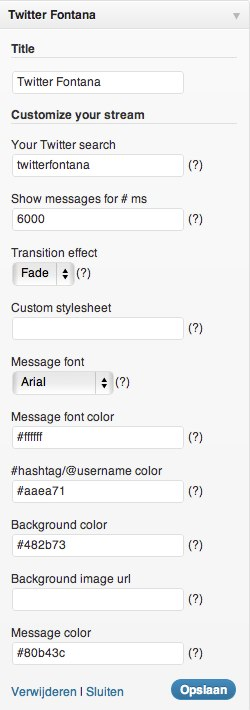
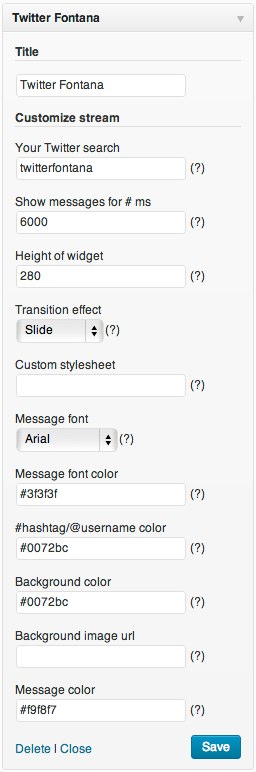
- height of widget now adjustable - updated screenshots
git-svn-id: https://plugins.svn.wordpress.org/twitterfontana-widget/trunk@614477 b8457f37-d9ea-0310-8a92-e5e31aec5664

diff --git a/twitterfontana.php b/twitterfontana.php
@@ -15,6 +15,8 @@
  * 
  * = 1.1 =
  * Added Compress effect
+ * Height of widget now adjustable
+ * New default colors
  */
 
 /*
@@ -58,6 +60,7 @@ class Twitterfontana_Widget extends WP_Widget {
 			'twitterfontana_twittersearch' => 'twitterfontana',
 			'twitterfontana_message_animate_interval' => 6000,
 			'twitterfontana_effect' => 'Slide',
+			'twitterfontana_height' => '280',
 			'twitterfontana_custom_css' => '',
 			'twitterfontana_font_face' => 'Arial, sans-serif',
 			'twitterfontana_text_color' => '#3f3f3f',
@@ -71,7 +74,7 @@ class Twitterfontana_Widget extends WP_Widget {
 			'Slide' => 'Slide',
 			'Fade' => 'Fade',
 			'Zoom' => 'Zoom',
-			'Compress' => 'Compres'
+			'Compress' => 'Compress'
 		);
 		
 		$tf_font_faces = array(
@@ -114,6 +117,14 @@ class Twitterfontana_Widget extends WP_Widget {
 			</p>
 		';
 		
+		// height
+		$tfoutput .= '
+		<p>
+			<label>' . __('Height of widget', 'twitterfontana') . '<br />
+			<input id="' . $this->get_field_id('twitterfontana_height') . '" name="' . $this->get_field_name('twitterfontana_height') . '" type="text" value="' . $instance['twitterfontana_height'] . '" /> <abbr title="' . __('Height in pixels or percentage', 'twitterfontana') . '">(?)</abbr></label>
+		</p>
+		';
+		
 		// Animation effects
 		$tfoutput .= '
 			<p>
@@ -132,7 +143,7 @@ class Twitterfontana_Widget extends WP_Widget {
 				</select><abbr title="' . __('Transition effect', 'twitterfontana') . '">(?)</abbr></label>
 			</p>
 		';
-
+		
 		// Custom stylesheet
 		$tfoutput .= '
 			<p>
@@ -213,13 +224,14 @@ class Twitterfontana_Widget extends WP_Widget {
 			'twitterfontana_twittersearch' => '',
 			'twitterfontana_message_animate_interval' => 6000,
 			'twitterfontana_effect' => 'Slide',
+			'twitterfontana_height' => '280',
 			'twitterfontana_custom_css' => '',
 			'twitterfontana_font_face' => 'Arial, sans-serif',
-			'twitterfontana_text_color' => '#ffffff',
-			'twitterfontana_special_color' => '#aaea71',
-			'twitterfontana_bg_color' => '#482b73',
+			'twitterfontana_text_color' => '#3f3f3f',
+			'twitterfontana_special_color' => '#0072bc',
+			'twitterfontana_bg_color' => '#0072bc',
 			'twitterfontana_bg_image' => '',
-			'twitterfontana_box_bg' => '#80b43c'
+			'twitterfontana_box_bg' => '#f9f8f7'
 			
 		));
 
@@ -228,6 +240,7 @@ class Twitterfontana_Widget extends WP_Widget {
 		$instance['twitterfontana_twittersearch'] = strip_tags($new_instance['twitterfontana_twittersearch']);
 		$instance['twitterfontana_message_animate_interval'] = strip_tags($new_instance['twitterfontana_message_animate_interval']);
 		$instance['twitterfontana_effect'] = strip_tags($new_instance['twitterfontana_effect']);
+		$instance['twitterfontana_height'] = strip_tags($new_instance['twitterfontana_height']);
 		$instance['twitterfontana_custom_css'] = strip_tags($new_instance['twitterfontana_custom_css']);
 		$instance['twitterfontana_font_face'] = strip_tags($new_instance['twitterfontana_font_face']);
 		$instance['twitterfontana_text_color'] = strip_tags($new_instance['twitterfontana_text_color']);
@@ -255,7 +268,9 @@ class Twitterfontana_Widget extends WP_Widget {
 	}
 
 	function twitterfontana_output($args = array(), $position) {
-		echo '<iframe src="http://twitterfontana.com/fountain.html?embed=true&twitter_search=' . $args['twitterfontana_twittersearch'] . '&effect=' . $args['twitterfontana_effect'] . '&message_animate_interval=' . $args['twitterfontana_message_animate_interval'] . '&custom_css=' . $args['twitterfontana_custom_css'] . '&font_face=' . $args['twitterfontana_font_face']. '&text_color=' . urlencode($args['twitterfontana_text_color']) . '&special_color=' . urlencode($args['twitterfontana_special_color']) . '&bg_color=' . urlencode($args['twitterfontana_bg_color']) . '&bg_image=' . $args['twitterfontana_bg_image']. '&box_bg=' . urlencode($args['twitterfontana_box_bg']) . '&utm_source=plugin&utm_medium=embed&utm_campaign=wordpress" frameborder="0" width="100%" height="300" scrolling="no"></iframe>';
+		$height = (empty($args['twitterfontana_height'])) ? '280' : $args['twitterfontana_height'];
+		
+		echo '<iframe src="http://twitterfontana.com/fountain.html?embed=true&twitter_search=' . $args['twitterfontana_twittersearch'] . '&effect=' . $args['twitterfontana_effect'] . '&message_animate_interval=' . $args['twitterfontana_message_animate_interval'] . '&custom_css=' . $args['twitterfontana_custom_css'] . '&font_face=' . $args['twitterfontana_font_face']. '&text_color=' . urlencode($args['twitterfontana_text_color']) . '&special_color=' . urlencode($args['twitterfontana_special_color']) . '&bg_color=' . urlencode($args['twitterfontana_bg_color']) . '&bg_image=' . $args['twitterfontana_bg_image']. '&box_bg=' . urlencode($args['twitterfontana_box_bg']) . '&utm_source=plugin&utm_medium=embed&utm_campaign=wordpress" frameborder="0" width="100%" height="' . $height . '" scrolling="no"></iframe>';
 
 	} // end of output
 	
@@ -296,18 +311,20 @@ add_action('widgets_init', create_function('', 'return register_widget("Twitterf
 				'twittersearch' => 'twitterfontana',
 				'message_animate_interval' => 6000,
 				'effect' => 'Slide',
+				'height' => '280',
 				'custom_css' => '',
 				'font_face' => 'Arial, sans-serif',
-				'text_color' => '#ffffff',
-				'special_color' => '#aaea71',
-				'bg_color' => '#482b73',
+				'text_color' => '#3f3f3f',
+				'special_color' => '#0072bc',
+				'bg_color' => '#0072bc',
 				'bg_image' => '',
-				'box_bg' => '#80b43c'
+				'box_bg' => '#f9f8f7'
 			), $atts));
 			
 			$instance['twitterfontana_twittersearch'] = wp_specialchars($twittersearch);
 			$instance['twitterfontana_message_animate_interval'] = wp_specialchars($message_animate_interval);
 			$instance['twitterfontana_effect'] = wp_specialchars($effect);
+			$instance['twitterfontana_height'] = wp_specialchars($height);
 			$instance['twitterfontana_custom_css'] = wp_specialchars($custom_css);
 			$instance['twitterfontana_font_face'] = wp_specialchars($font_face);
 			$instance['twitterfontana_text_color'] = wp_specialchars($text_color);
